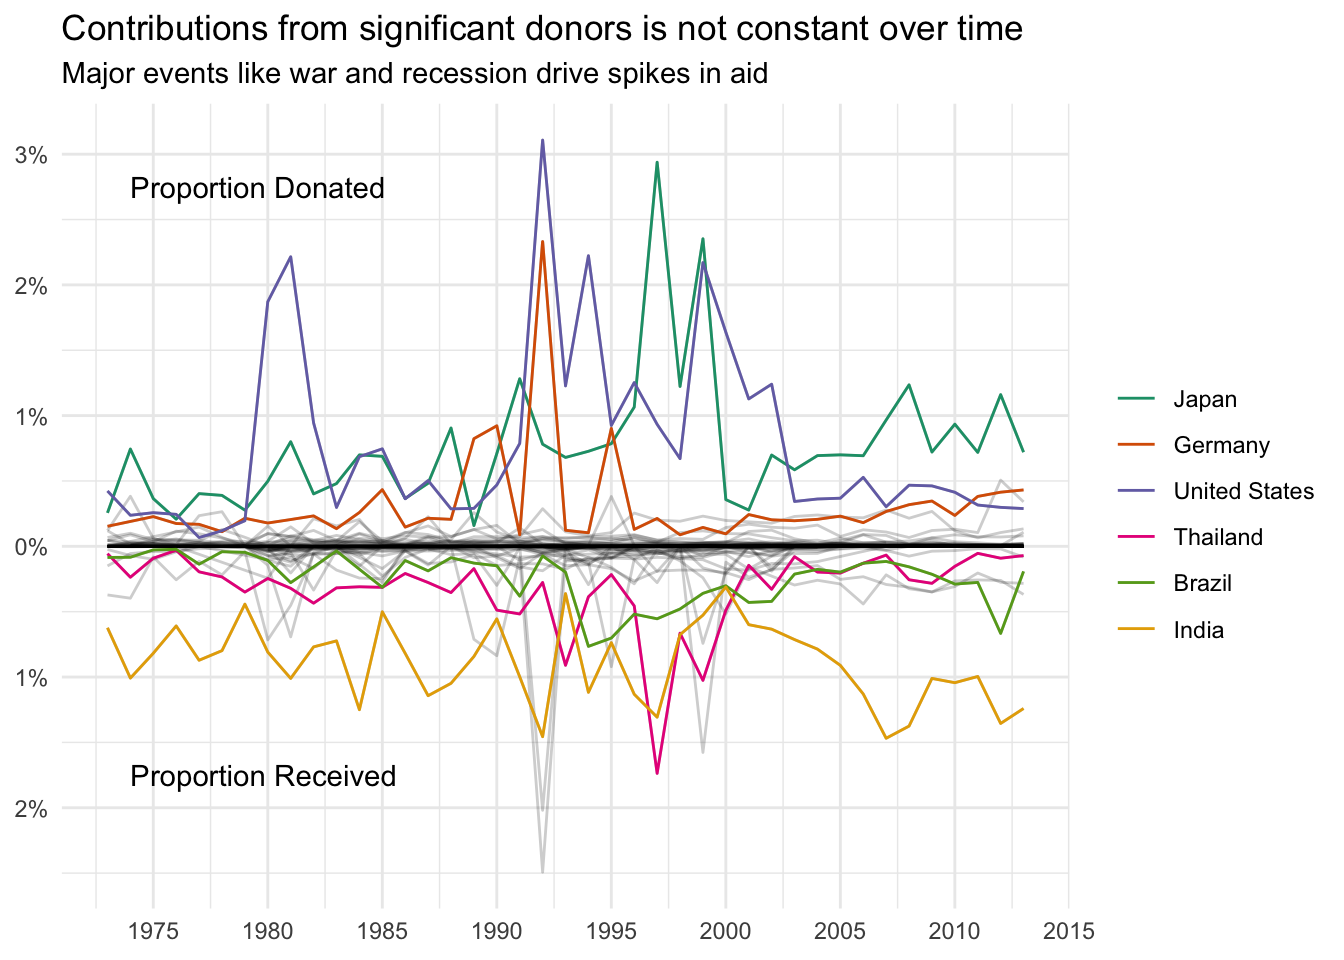
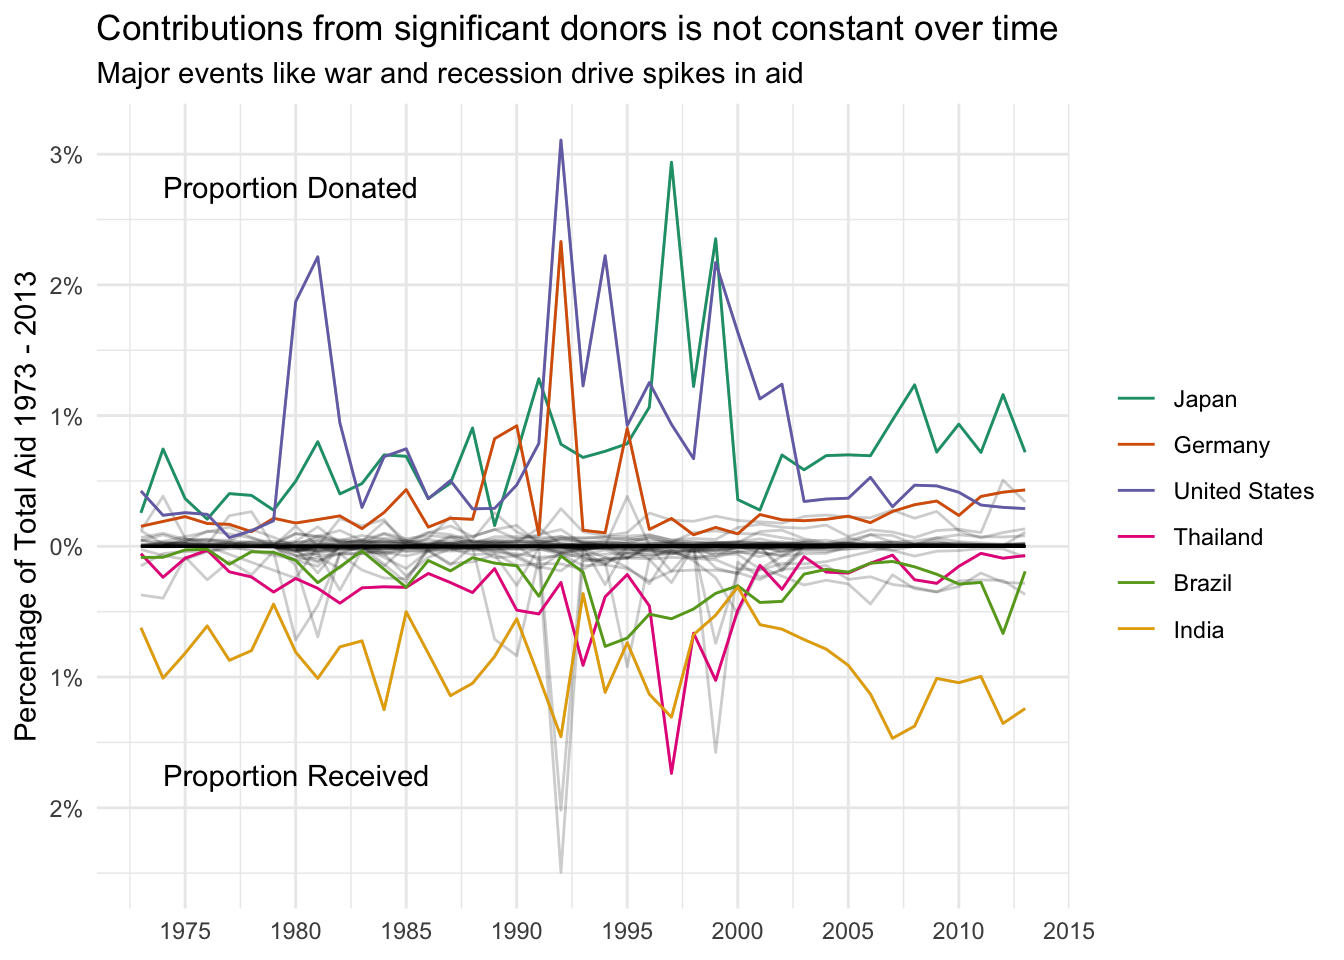
swd challenge axis update

diff --git a/post/2019-03-07-swdchallenge/index.html b/post/2019-03-07-swdchallenge/index.html
@@ -683,7 +683,7 @@ timeseries %&gt;%
   labs(
     x = NULL,
     color = NULL,
-    y = NULL,
+    y = glue::glue(&quot;Percentage of Total Aid {min(pull(data, year))} - {max(pull(data, year))}&quot;),
     title = &quot;Contributions from significant donors is not constant over time&quot;,
     subtitle = &quot;Major events like war and recession drive spikes in aid&quot;
   ) +
